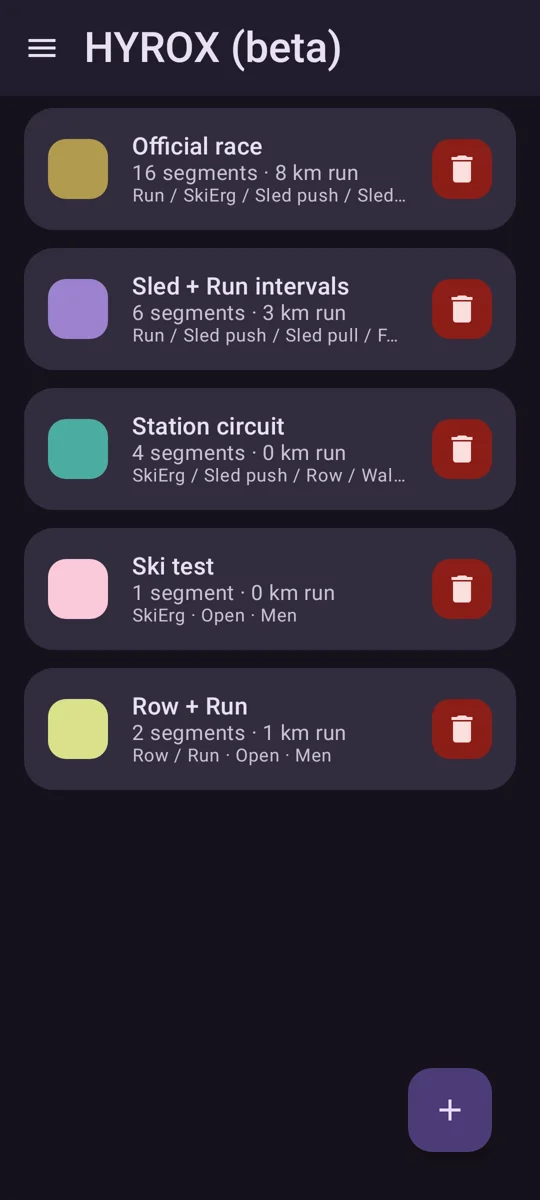
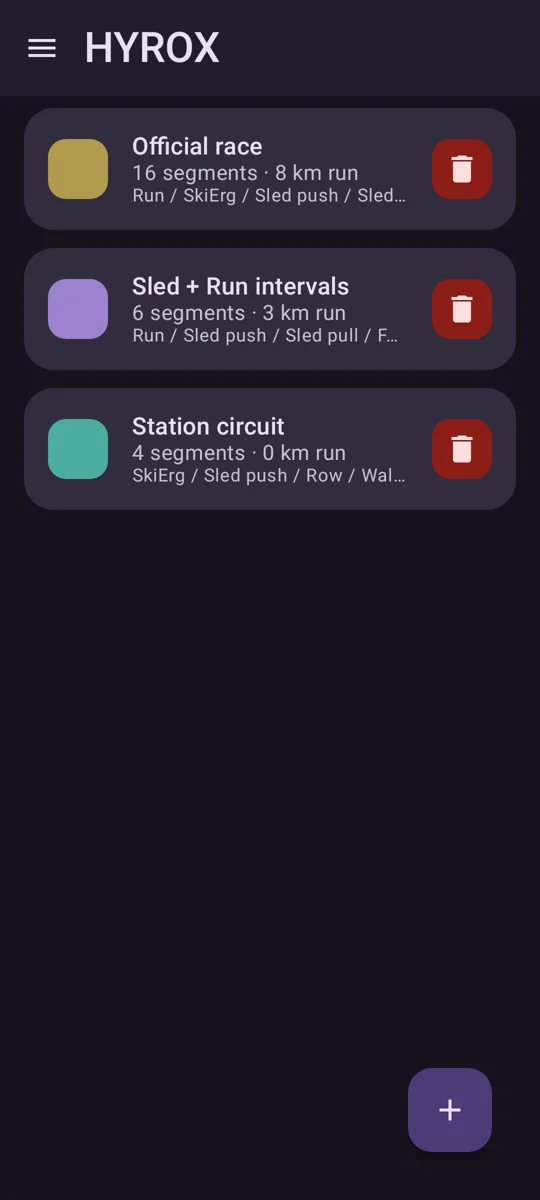
Updated for version 2.3.3: HYROX no longer beta, About page, refreshed screenshots

Changed region(s): [[0.0296, 0.4317, 0.9778, 0.6783], [0.4148, 0.0, 0.6519, 0.0617]]

diff --git a/help/index.html b/help/index.html
@@ -21,7 +21,7 @@
 </head>
 <body>
   <h1>How to use Liftloq</h1>
-  <p class="meta">Local workout calendar · No account required · Dark theme only · Updated for version 2.3.2</p>
+  <p class="meta">Local workout calendar · No account required · Dark theme only · Updated for version 2.3.3</p>
 
   <p>Liftloq keeps your workout plan on your device. Mark days on the calendar, manage workout types, plan and time HYROX workouts, and optionally track supplement spending — without signing in.</p>
 
@@ -58,7 +58,7 @@
   <ol class="steps">
     <li>Bodybuilding has two modes. <strong>Simple</strong> (default) works exactly as before: you mark a day with a workout type, and a type has only a name and a colour. <strong>Advanced</strong> also lets you keep exercises on each workout type and log sets, reps and kg.</li>
     <li>Turn it on in Settings → <strong>Modes</strong>: under <strong>Bodybuilding</strong>, tap <strong>Advanced</strong>. The switch is only shown while Bodybuilding is on.</li>
-    <li>Add exercises to a type once: menu (☰) → <strong>Bodybuilding</strong>, tap a type (or <strong>+</strong> for a new one). Below the colour there is <strong>Exercises</strong>. Tap <strong>+ Exercise</strong> and pick one from the list, grouped by muscle (Chest, Back, Shoulders, Biceps, Triceps, Legs, Calves, Core). Tap an exercise to set how many sets it has (for example “Chest · 3 sets”). Use ⋮ to move it up or down, and the red trash button to remove it. Then tap <strong>Save</strong>.</li>
+    <li>Add exercises to a type once: menu (☰) → <strong>Bodybuilding</strong>, tap a type (or <strong>+</strong> for a new one). Below the colour there is <strong>Exercises</strong>. Tap <strong>+ Exercise</strong> and pick one from the list, grouped by muscle (Chest, Back, Shoulders, Biceps, Triceps, Legs, Calves, Core). Tap an exercise to set how many sets it has (1–20, for example “Chest · 3 sets”); the Sets field always shows the number that is saved. Use ⋮ to move it up or down, and the red trash button to remove it. Then tap <strong>Save</strong>.</li>
     <li>On a day, open the <strong>Bodybuilding</strong> section and pick the type. Its exercises are already there, with empty sets. The first exercise is open: fill in reps and kg, and add more with <strong>+ Set</strong>. A set counts as done as soon as you enter reps or kg; an empty set is not done. The summary shows how many sets are done and your best kg. Tap a card to open or close it. With two types picked, each type’s exercises follow in chip order.</li>
     <li>Doing something extra today? Tap <strong>+ Exercise for this day</strong>. It is marked <strong>This day only</strong> and does not change the type.</li>
     <li>Tap <strong>Save</strong> on the day sheet to keep the day and its sets. If you change a type’s exercises later, days you already logged stay as they were.</li>
@@ -109,14 +109,14 @@
     <figcaption>Supps money pit: tap <strong>+</strong> to add a purchase, then <strong>Save</strong>.</figcaption>
   </figure>
 
-  <h2>5. HYROX β</h2>
+  <h2>5. HYROX</h2>
   <ol class="steps">
-    <li><strong>Builder:</strong> menu (☰) → <strong>HYROX (beta)</strong> → <strong>+</strong>. Name the workout, pick a colour and division, then tap <strong>+ Segment</strong> to pick a run or station from the list (sorted into Runs and Stations). While the list is still empty, <strong>+ Full race</strong> next to it adds the 16 official segments. A new segment opens ready to edit (distance or reps, weight); tap any card to open it, use <strong>⋮</strong> → <strong>Move up</strong> / <strong>Move down</strong> to reorder, and the red trash to delete it (you confirm first). The list scrolls under the floating <strong>Cancel</strong> and <strong>Save</strong> buttons (bottom right). If the name is empty, Save scrolls back to the <strong>Name</strong> field and shows <strong>Name required</strong>. When editing an existing workout, <strong>Delete</strong> is next to the title.</li>
+    <li><strong>Builder:</strong> menu (☰) → <strong>HYROX</strong> → <strong>+</strong>. Name the workout, pick a colour and division, then tap <strong>+ Segment</strong> to pick a run or station from the list (sorted into Runs and Stations). While the list is still empty, <strong>+ Full race</strong> next to it adds the 16 official segments. A new segment opens ready to edit (distance or reps, weight); tap any card to open it, use <strong>⋮</strong> → <strong>Move up</strong> / <strong>Move down</strong> to reorder, and the red trash to delete it (you confirm first). The list scrolls under the floating <strong>Cancel</strong> and <strong>Save</strong> buttons (bottom right). If the name is empty, Save scrolls back to the <strong>Name</strong> field and shows <strong>Name required</strong>. When editing an existing workout, <strong>Delete</strong> is next to the title.</li>
     <li><strong>Delete:</strong> on the HYROX list, tap the red trash on a workout (or Delete inside the editor). Confirm — sessions are removed and the workout is cleared from every calendar day. Official race is not re-seeded after you delete it.</li>
     <li><strong>Plan it:</strong> on a day sheet, open <strong>HYROX workouts</strong> and pick one or more, then <strong>Save</strong>.</li>
     <li><strong>Start HYROX:</strong> on a day with a planned HYROX workout, a <strong>Start HYROX</strong> button appears above the add button. With several planned, it opens a menu to choose one.</li>
     <li><strong>Race mode:</strong> a wavy progress bar and the big total sit on top, then a <strong>Current</strong> card (segment and its time), a <strong>Next</strong> card (with your best split when known) and your last laps vs best. Tap <strong>Next split</strong> at the end of each segment. <strong>Pause</strong> freezes the clock (paused time is not counted; the wave goes flat), <strong>Resume</strong> continues, the undo button removes the last split. All three sit in one connected row at the bottom. <strong>Finish</strong> (top bar) asks for confirmation. Then review and <strong>Save</strong>; results show with an <strong>OK</strong> button back to the calendar.</li>
-    <li><strong>Stats:</strong> Stats → <strong>HYROX β</strong> shows History (tap a session for its results), best splits and station decay. History is newest first; sessions on the same day stay in the order you did them, also after an export/import.</li>
+    <li><strong>Stats:</strong> Stats → <strong>HYROX</strong> shows History (tap a session for its results), best splits and station decay. History is newest first; sessions on the same day stay in the order you did them, also after an export/import.</li>
   </ol>
 
   <figure>
@@ -129,7 +129,7 @@
   </figure>
   <figure>
     <img src="images/help-hyrox-full-race.webp" alt="New HYROX workout with Full race and Add segment buttons" loading="lazy" width="540" height="1200" />
-    <figcaption>New workout: <strong>+ Full race</strong> and <strong>+ Add segment</strong> side by side. Full race is only offered while the list is empty.</figcaption>
+    <figcaption>New workout: <strong>+ Segment</strong> and <strong>+ Full race</strong> side by side. Full race is only offered while the list is empty.</figcaption>
   </figure>
 
   <figure>
@@ -158,31 +158,32 @@
   </figure>
   <figure>
     <img src="images/help-stats-hyrox.webp" alt="Stats HYROX tab" loading="lazy" width="540" height="1200" />
-    <figcaption>Stats → HYROX β: History on top, then templates and best splits.</figcaption>
+    <figcaption>Stats → HYROX: History on top, then templates and best splits.</figcaption>
   </figure>
   <h2>6. Stats</h2>
   <ol class="steps">
-    <li>Menu (☰) → <strong>Stats</strong>. The bottom toggle has <strong>Days since</strong> (opens first), <strong>Overview</strong> and <strong>HYROX β</strong> (only while HYROX is on).</li>
+    <li>Menu (☰) → <strong>Stats</strong>. The bottom toggle has <strong>Days since</strong> (opens first), <strong>Overview</strong> and <strong>HYROX</strong> (only while HYROX is on).</li>
     <li><strong>Days since</strong> shows how long ago you last did each type: green 0–3 days, yellow 4–6, red 7 or more (or never).</li>
-    <li><strong>Overview</strong> shows this week or month by type; <strong>HYROX β</strong> shows History, templates and best splits.</li>
-    <li><strong>Swipe up</strong> to go to the next tab: Days since → Overview → HYROX β → Days since. Long tabs scroll normally first; the tab only changes when you keep swiping up at the bottom. The toggle follows.</li>
+    <li><strong>Overview</strong> shows this week or month by type; <strong>HYROX</strong> shows History, templates and best splits.</li>
+    <li><strong>Swipe up</strong> to go to the next tab: Days since → Overview → HYROX → Days since. Long tabs scroll normally first; the tab only changes when you keep swiping up at the bottom. The toggle follows.</li>
   </ol>
   <figure>
     <img src="images/help-stats-days-since.webp" alt="Stats Days since tab with green, yellow and red chips" loading="lazy" width="540" height="1200" />
-    <figcaption>Stats opens on Days since; swipe up for Overview and HYROX β.</figcaption>
+    <figcaption>Stats opens on Days since; swipe up for Overview and HYROX.</figcaption>
   </figure>
   <h2>7. Settings: sections and toggles</h2>
   <ol class="steps">
     <li>Menu (☰) → <strong>Settings</strong>. Sections: <strong>General</strong> (language, currency, motivation quote), <strong>Modes</strong>, <strong>Card order</strong>, <strong>Workout plan</strong> and <strong>About</strong>.</li>
     <li><strong>Appearance:</strong> Liftloq is dark-only. The app and both home-screen widgets always use the dark theme (with your wallpaper colours on Android 12+), even when the phone is set to light mode.</li>
-    <li><strong>Modes:</strong> turn <strong>Bodybuilding</strong> or <strong>HYROX (beta)</strong> off to hide everything for that mode (calendar entries, legend, stats, menu pages). Nothing is deleted; turning it back on restores it. One of the two must stay on. <strong>Supps money pit</strong> has its own switch, separate from that rule: off hides the Supps page from the menu and swipe cycle (purchases are kept).</li>
+    <li><strong>Modes:</strong> turn <strong>Bodybuilding</strong> or <strong>HYROX</strong> off to hide everything for that mode (calendar entries, legend, stats, menu pages). Nothing is deleted; turning it back on restores it. One of the two must stay on. <strong>Supps money pit</strong> has its own switch, separate from that rule: off hides the Supps page from the menu and swipe cycle (purchases are kept).</li>
     <li><strong>Card order:</strong> use the ↑ / ↓ buttons to set the order of the cards in the menu and in the swipe cycle. Changes apply right away. Cards switched off in Modes are dimmed and marked <strong>Hidden</strong>; you can still move them, and they are skipped until you turn them back on. Settings is always last in the menu and is never part of the swipe cycle.</li>
     <li>A language change is applied when you tap <strong>Save</strong> (bottom right).</li>
+    <li><strong>About:</strong> Settings → About → <strong>About Liftloq</strong> shows the app version (name and build number). <strong>Help &amp; feedback</strong> opens this page (<strong>How to use</strong>) or an email to the developer (<strong>Feedback</strong>); <strong>Legal</strong> has the <strong>Privacy policy</strong>.</li>
   </ol>
 
   <figure>
     <img src="images/help-settings.webp" alt="Settings Modes section with three switches" loading="lazy" width="540" height="1200" />
-    <figcaption>Settings → Modes: Bodybuilding, HYROX (beta) and Supps money pit.</figcaption>
+    <figcaption>Settings → Modes: Bodybuilding, HYROX and Supps money pit.</figcaption>
   </figure>
   <figure>
     <img src="images/help-card-order.webp" alt="Settings Card order section with up and down buttons for each card" loading="lazy" width="540" height="1200" />
@@ -192,6 +193,10 @@
     <img src="images/help-settings-end.webp" alt="Settings with Workout plan and About sections" loading="lazy" width="540" height="1200" />
     <figcaption>Workout plan (export/import) and About.</figcaption>
   </figure>
+  <figure>
+    <img src="images/help-about.webp" alt="About Liftloq page with the app icon, version, Help and feedback and Legal sections" loading="lazy" width="540" height="1200" />
+    <figcaption>About Liftloq: version, Help &amp; feedback, and Legal.</figcaption>
+  </figure>
   <h2>8. Export / import</h2>
   <ol class="steps">
     <li>Settings → <strong>Workout plan</strong> → <strong>Export workout plan</strong> saves a JSON backup (types, days, notes, supplements, HYROX data, your card order and Modes switches, and the Advanced bodybuilding data: the exercises on your workout types, the exercise log and your custom exercises).</li>
@@ -199,7 +204,7 @@
   </ol>
 
   <div class="tip">
-    <strong>Tip:</strong> Swipe left below the calendar to cycle through the cards in your <strong>Card order</strong> (default: <strong>Calendar → Bodybuilding → HYROX β → Stats → Supps money pit</strong>). Pages for a mode that is off are skipped. Settings stays in the menu only.
+    <strong>Tip:</strong> Swipe left below the calendar to cycle through the cards in your <strong>Card order</strong> (default: <strong>Calendar → Bodybuilding → HYROX → Stats → Supps money pit</strong>). Pages for a mode that is off are skipped. Settings stays in the menu only.
   </div>
 
   <h2>Privacy &amp; contact</h2>
